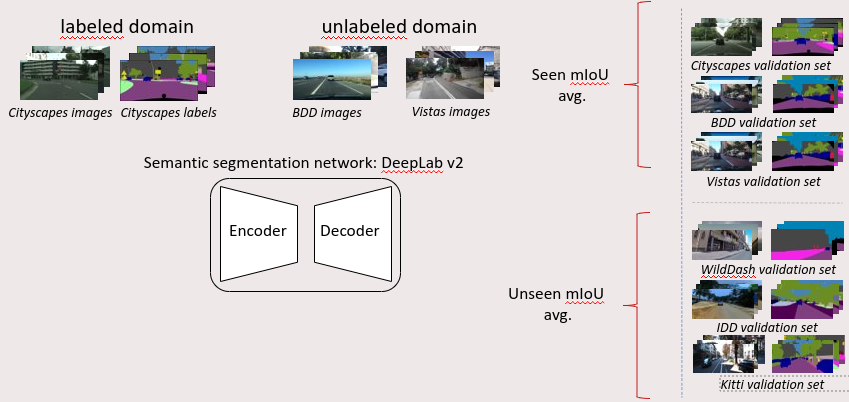
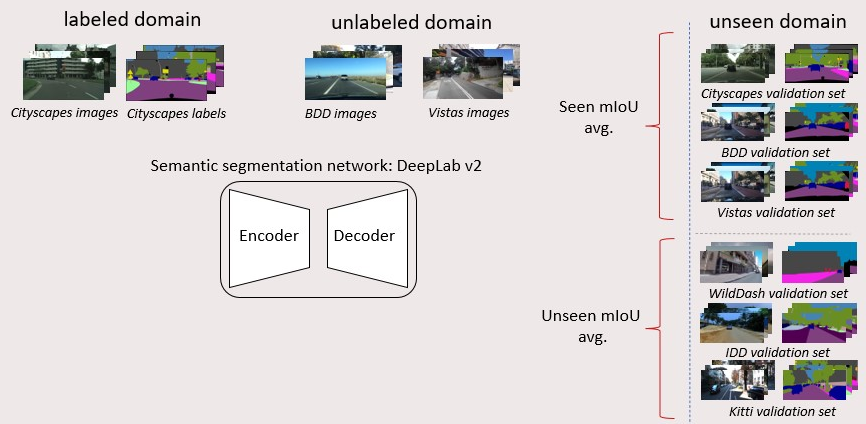
Added evaluation framework figure

diff --git a/empirical_generalization_study/index.html b/empirical_generalization_study/index.html
@@ -247,7 +247,7 @@ For autonomous vehicles and mobile robots to safely operate in the real world, i
 		<center>
 			<tr>
 				<td>
-					Short description if wanted
+					We take state-of-the-art Unsupervised Domain Adaptation and Domain Generalization methods and we evaluate them on an evaluation framework especially designed to assess the generalization capacity of models to unseen domains. 
 				</td>
 			</tr>
 		</center>
